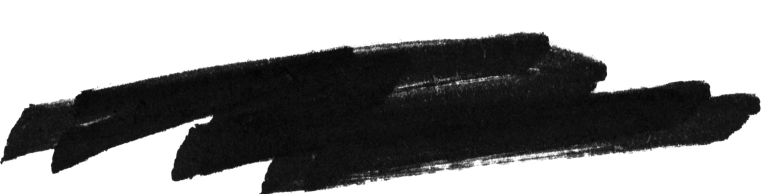
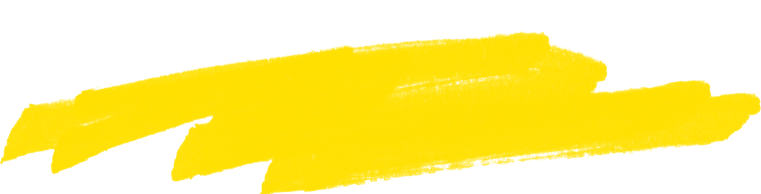
Make section header markers yellow with softer opacity.
Recolor the highlight stroke and lower its opacity so accents stay readable.

diff --git a/app/globals.css b/app/globals.css
@@ -3335,16 +3335,28 @@ html:not(.lenis):not(.lenis-smooth) {
   position: relative;
   display: inline;
   white-space: nowrap;
-  padding: 0.06em 0.32em 0.1em;
-  margin-inline: 0.04em;
-  color: #ffffff;
-  -webkit-text-fill-color: #ffffff;
-  background-image: url("/marker-highlight.png");
+  padding: 0.04em 0.22em 0.08em;
+  margin-inline: 0.02em;
+  color: #0f172a;
+  -webkit-text-fill-color: #0f172a;
+  background: none;
+  box-decoration-break: clone;
+  -webkit-box-decoration-break: clone;
+  z-index: 0;
+}
+
+.accent-word::before {
+  content: "";
+  position: absolute;
+  inset-inline: -0.08em;
+  inset-block: 0.18em -0.02em;
+  z-index: -1;
+  background-image: url("/marker-highlight.png?v=yellow");
   background-repeat: no-repeat;
   background-position: center;
   background-size: 100% 100%;
-  box-decoration-break: clone;
-  -webkit-box-decoration-break: clone;
+  opacity: 0.45;
+  pointer-events: none;
 }
 
 .scribble-underline {

diff --git a/app/home-polish.css b/app/home-polish.css
@@ -147,14 +147,15 @@
 }
 
 .homepage-light-shell .accent-word {
-  color: #ffffff;
-  -webkit-text-fill-color: #ffffff;
-  background-image: url("/marker-highlight.png");
-  background-repeat: no-repeat;
-  background-position: center;
-  background-size: 100% 100%;
-  background-clip: border-box;
-  -webkit-background-clip: border-box;
+  color: #0f172a;
+  -webkit-text-fill-color: #0f172a;
+  background: none;
+  background-clip: unset;
+  -webkit-background-clip: unset;
+}
+
+.homepage-light-shell .accent-word::before {
+  opacity: 0.9;
 }
 
 .homepage-light-shell .home-eyebrow {
